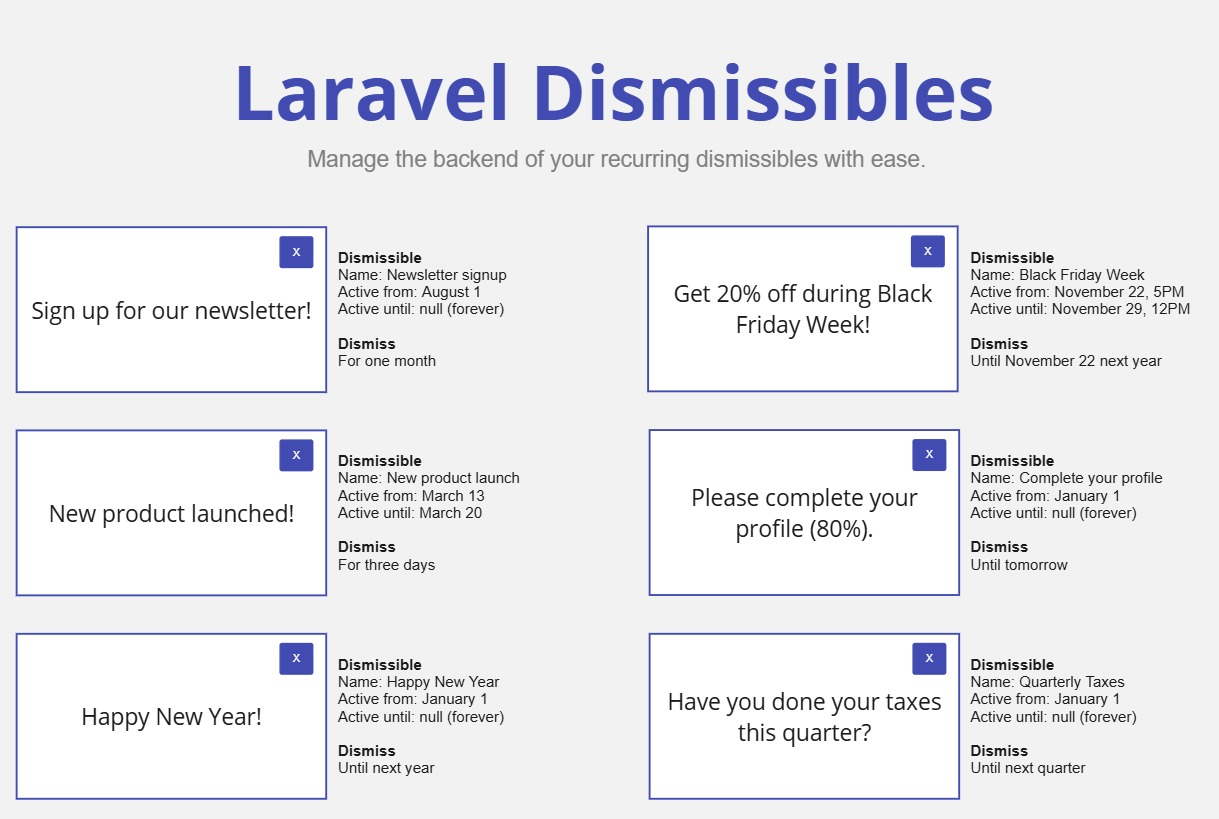
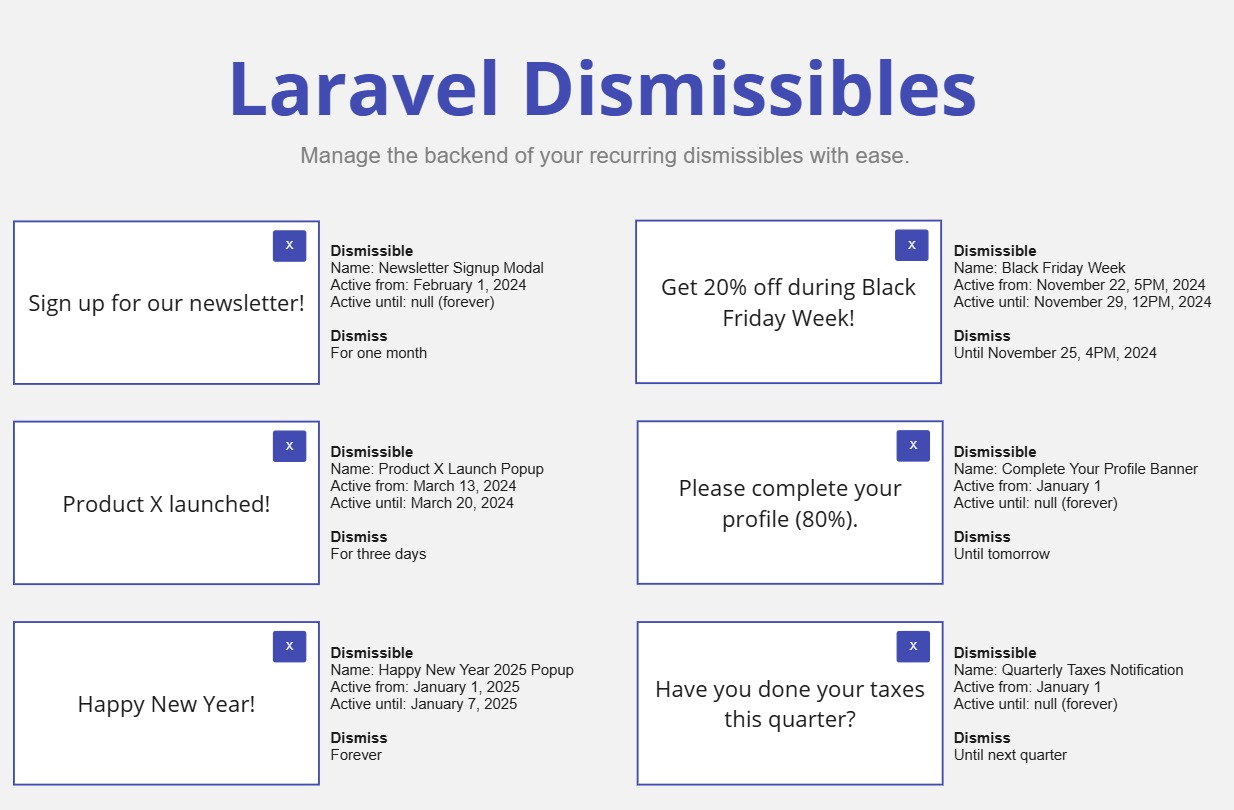
Make sure test code in README.md can be copied and works out of the box, add some more examples, add years to image so it's more clear

diff --git a/README.md b/README.md
@@ -48,8 +48,8 @@ return new class () extends Migration {
     public function up(): void
     {
         DB::table('dismissibles')->insert([
-            'name'         => 'Happy New Year popup', // This is your **unique** identifier
-            'active_from'  => Date::createFromFormat('d-m-Y', '01-01-2024'),
+            'name'         => 'Test Popup', // This is your **unique** identifier
+            'active_from'  => Date::createFromFormat('d-m-Y', '01-03-2024'),
             'active_until' => null, // Optional end date
             'created_at'   => Date::now(),
             'updated_at'   => Date::now(),
@@ -75,11 +75,11 @@ class SomeController {
     {
         ...
     
-        // It's recommended to fetch the name through something like: config('dismissibles.new_years_popup.name')
+        // It's recommended to fetch the name through something like: config('dismissibles.test_popup.name')
+        $showPopup = Dismissibles::shouldShow('Test Popup', $user);
         
-        $showPopup = Dismissibles::shouldShow('Happy New Year popup', $user);
-        
-        // You can add your own conditionals here like:
+        // Here are some more examples, including ones with additional conditionals:
+        $showPopup = Dismissibles::shouldShow('Happy New Year 2025 Popup', $user);
         $showPopup = !$user->is_subscribed && Dismissibles::shouldShow('Newsletter signup modal', $user);
         $showPopup = !$user->has_completed_profile && Dismissibles::shouldShow('Complete your profile notification', $user);
         
@@ -97,10 +97,10 @@ class SomeController {
     {
         ...
         
-        Dismissibles::dismiss('Happy New Year popup', $user)->untilNextYear();
+        Dismissibles::dismiss('Test Popup', $user)->untilNextWeek();
         
         // Here's an overview of all the ways you can dismiss:
-        Dismissibles::dismiss('Happy New Year popup', $user)
+        Dismissibles::dismiss('Test Popup', $user)
             ->untilTomorrow();
             ->untilNextWeek();
             ->untilNextMonth();
@@ -130,15 +130,15 @@ public static function isDismissed(string $name, Dismisser $dismisser): bool;
 The database structure allows you to easily track activity regarding dismissibles. Due to the `extra_data` column it's also very flexible!
 
 ### dismissibles (popups, notifications, modals)
-| id | name                 | active_from         | active_until | created_at          | updated_at          |
-|----|----------------------|---------------------|--------------|---------------------|---------------------|
-| 3  | Happy New Year popup | 2024-01-01 00:00:00 | null         | 2023-12-15 17:35:54 | 2023-12-15 17:35:54 |
+| id | name       | active_from         | active_until | created_at          | updated_at          |
+|----|------------|---------------------|--------------|---------------------|---------------------|
+| 3  | Test Popup | 2024-03-01 00:00:00 | null         | 2023-12-15 17:35:54 | 2023-12-15 17:35:54 |
 
 
 ### dismissals (activity)
 | id | dismissible_id | dismisser_type  | dismisser_id | dismissed_until     | extra_data                   | created_at          | updated_at          |
 |----|----------------|-----------------|--------------|---------------------|------------------------------|---------------------|---------------------|
-| 15 | 3              | App\Models\User | 328          | 2025-01-01 00:00:00 | "{\"route\":\"home.index\"}" | 2024-01-02 17:35:54 | 2024-01-02 17:35:54 |
+| 15 | 3              | App\Models\User | 328          | 2024-04-29 00:00:00 | "{\"route\":\"home.index\"}" | 2024-04-28 17:35:54 | 2024-04-28 17:35:54 |
 
 ## Buy me a coffee
 If you like this package, consider [buying me a coffee](https://www.paypal.com/donate/?business=E6QBKXWLXMD92&no_recurring=1&item_name=Buy+me+a+coffee&currency_code=EUR&amount=2.50) :-).
